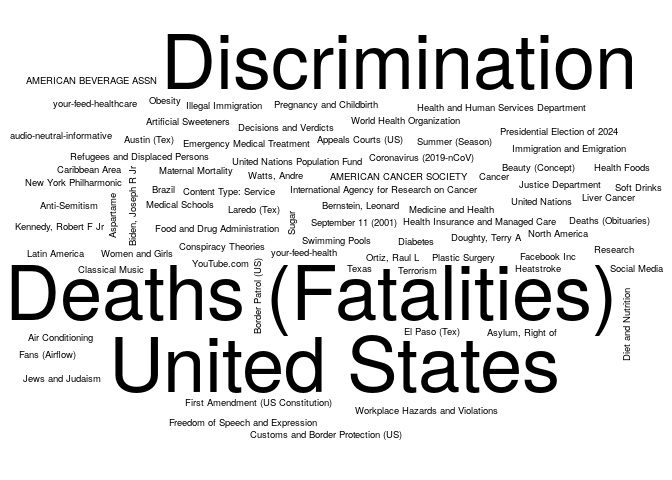
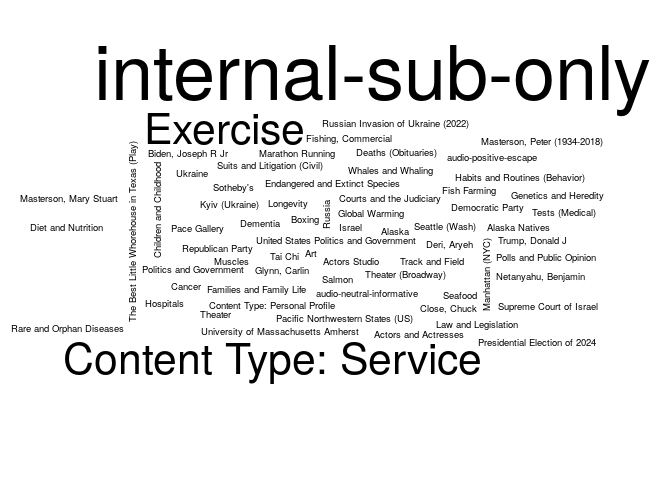
Updating the NYT report

Changed region(s): [[0.0, 0.0625, 1.0, 0.9375]]

diff --git a/03-nytimes/README.md b/03-nytimes/README.md
@@ -5,7 +5,7 @@ The following is an example of how to use the [NYTimes
 API](https://developer.nytimes.com/) to get a list of articles related
 to a particular term. Here we are searching articles that include the
 term `"health"`, and that were published up to seven days ago since
-2023-07-17.
+2023-07-24.
 
 ``` r
 # Preparing a function to use the GET method with the NYTimes API
@@ -83,25 +83,25 @@ colnames(tab) <- c("Keyword", "# Articles")
 knitr::kable(tab, row.names = FALSE)
 ```
 
-| Keyword                               | \# Articles |
-|:--------------------------------------|------------:|
-| Black People                          |          10 |
-| Blacks                                |          10 |
-| Deaths (Fatalities)                   |          10 |
-| Discrimination                        |          10 |
-| Heat and Heat Waves                   |          10 |
-| Homeland Security Department          |          10 |
-| United States                         |          10 |
-| United States Politics and Government |          10 |
-| Air Conditioning                      |           5 |
-| AMERICAN BEVERAGE ASSN                |           5 |
-| AMERICAN CANCER SOCIETY               |           5 |
-| Anti-Semitism                         |           5 |
-| Appeals Courts (US)                   |           5 |
-| Artificial Sweeteners                 |           5 |
-| Aspartame                             |           5 |
-| Asylum, Right of                      |           5 |
-| audio-neutral-informative             |           5 |
-| Austin (Tex)                          |           5 |
-| Beauty (Concept)                      |           5 |
-| Bernstein, Leonard                    |           5 |
+| Keyword                        | \# Articles |
+|:-------------------------------|------------:|
+| internal-sub-only              |          15 |
+| Content Type: Service          |          10 |
+| Exercise                       |          10 |
+| Actors and Actresses           |           5 |
+| Actors Studio                  |           5 |
+| Alaska                         |           5 |
+| Alaska Natives                 |           5 |
+| Art                            |           5 |
+| audio-neutral-informative      |           5 |
+| audio-positive-escape          |           5 |
+| Biden, Joseph R Jr             |           5 |
+| Boxing                         |           5 |
+| Cancer                         |           5 |
+| Children and Childhood         |           5 |
+| Close, Chuck                   |           5 |
+| Content Type: Personal Profile |           5 |
+| Courts and the Judiciary       |           5 |
+| Deaths (Obituaries)            |           5 |
+| Dementia                       |           5 |
+| Democratic Party               |           5 |
